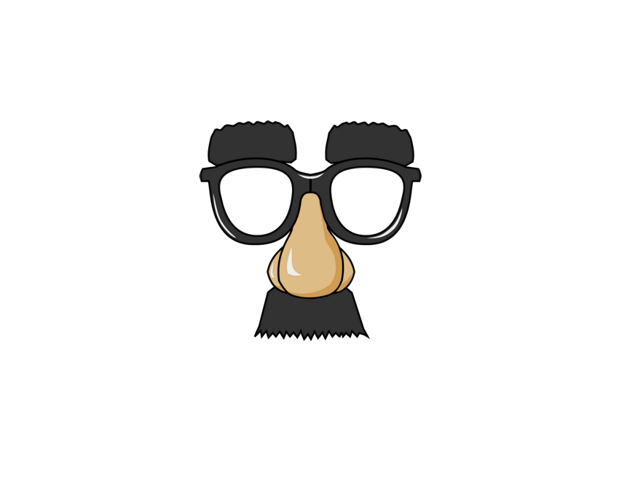
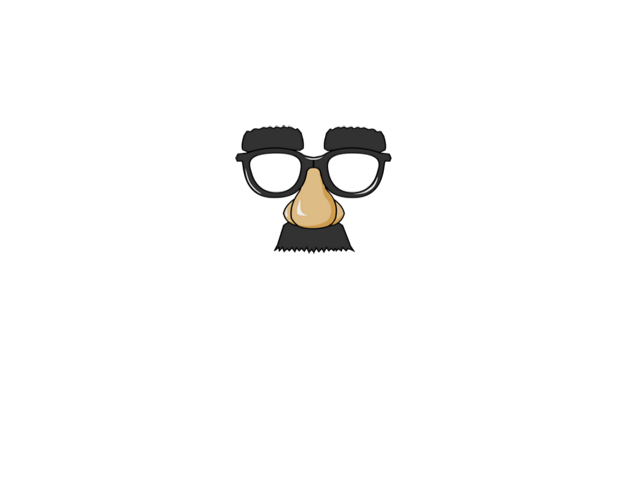
attempting to add stickers

Changed region(s): [[0.3125, 0.25, 0.6562, 0.7188]]

diff --git a/video.php b/video.php
@@ -26,7 +26,7 @@
 		}
 		$im = imagecreatefrompng('./bot.png');
 		imagecopyresampled($im, $sticker, 0, 0, 0, 0, 640, 480, 640, 480);
-		imagepng($im, "new.png");
+		imagepng($im, $_SESSION["username"]."new.png");
 	}
 	echo "<img width='640px' height='480px' style='position:absolute; z-index:2; top:10%' id='dadada'>";
 ?>
@@ -89,6 +89,8 @@
 				 		console.log(xhr.responseText);
 				 }
 				xhr.send(JSON.stringify(id))
+			snap();
+			replaceImage();
 
 		}
 		function snap(){
@@ -125,6 +127,15 @@
 			
 			download.setAttribute("href", image);
 		}
+		function replaceImage(){
+			var src = "./<?php echo $_SESSION["username"]?>new.png"
+			var img1 = new Image();
+			img1.src = src;
+			canvas.width = video.clientWidth;
+			canvas.height = video.clientHeight;
+			context.drawImage(img1,0,0,640,480,0,0,canvas.width,canvas.height);
+		}
+
 		document.getElementById("add_gal").addEventListener("click", function(){
 			var img = new Image();
 			img.src = canvas.toDataURL();
